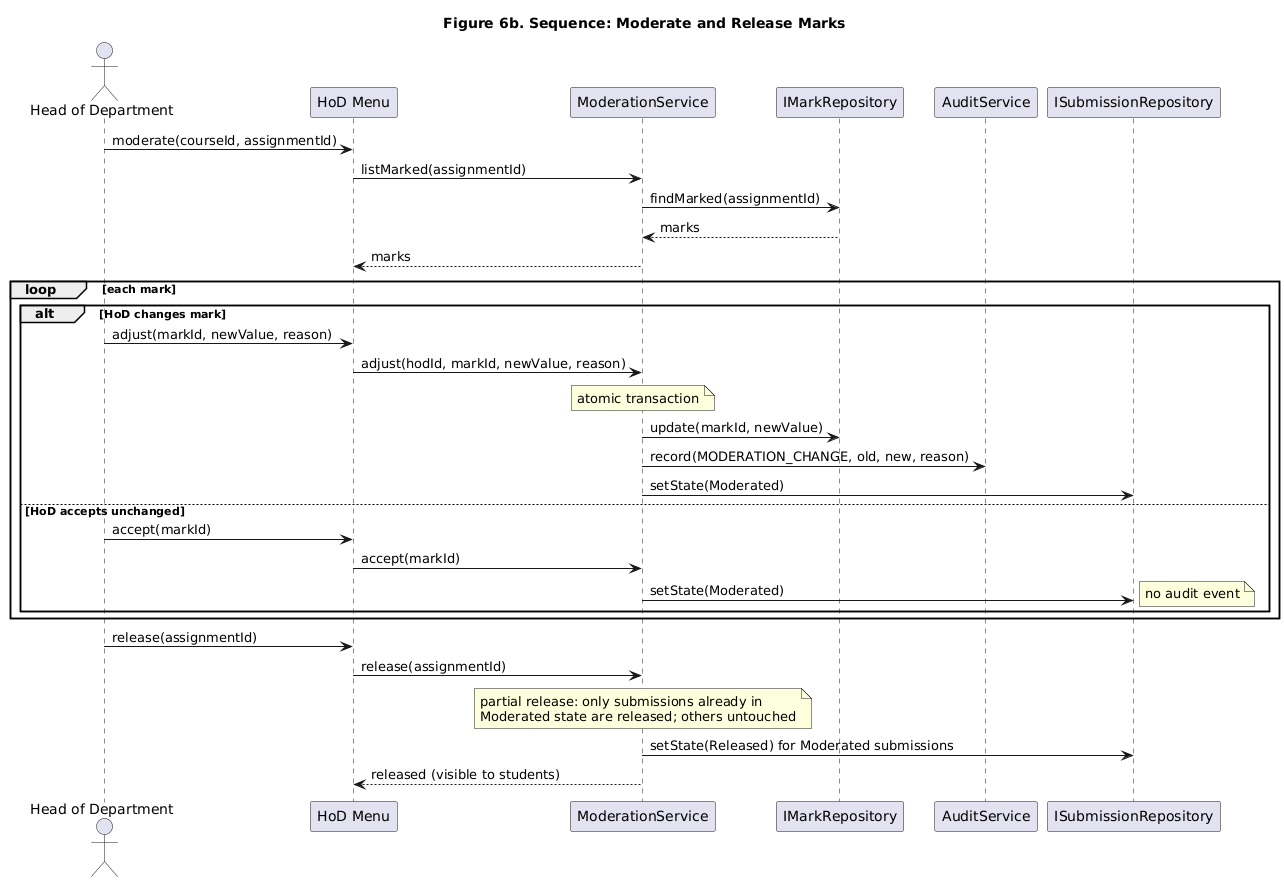
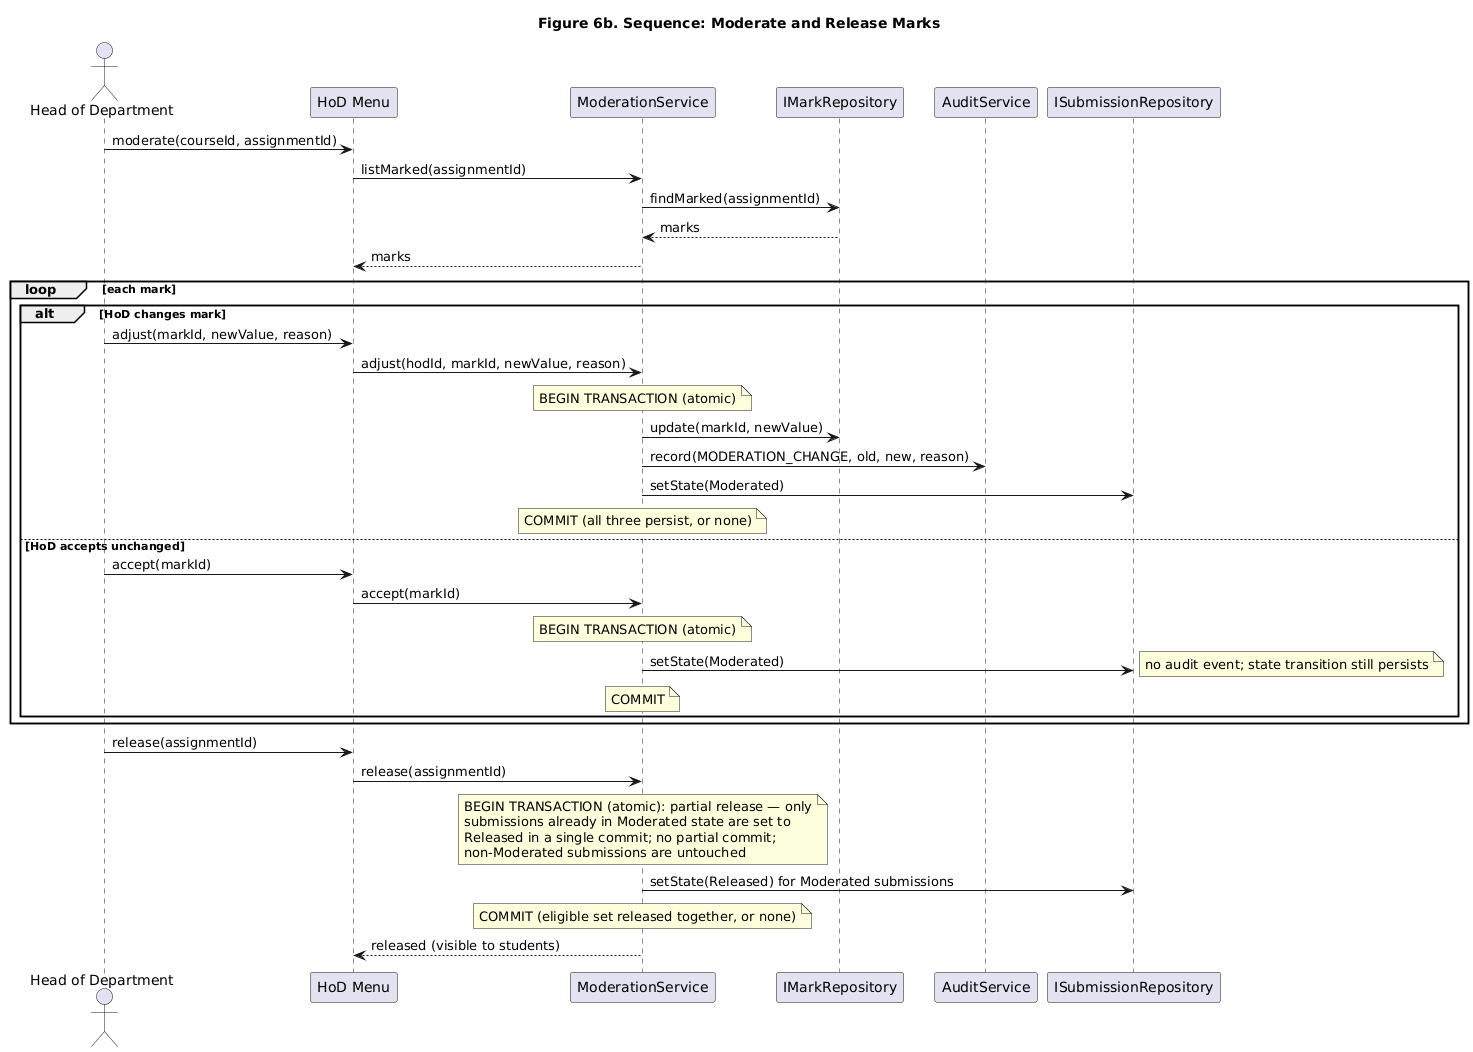
Gate 2 corrections (round 2): strengthen audit-reason whitespace check and validator constraint assertions; specify atomic transactions for marking, moderation and release; clarify first-late-only rule across UC-10, SRS and stakeholder conflicts

diff --git a/database/validate_schema.py b/database/validate_schema.py
@@ -1,6 +1,7 @@
 #!/usr/bin/env python3
-"""Validate database/schema.sql against SQLite: schema applies, valid data is
-accepted, and every integrity constraint rejects its matching invalid case.
+"""Validate database/schema.sql against SQLite: the schema applies, valid data
+is accepted, and each integrity constraint rejects its matching invalid case
+WITH THE EXPECTED error (not merely any exception).
 Design verification only - this is NOT the application. Run: python validate_schema.py
 """
 import os, sqlite3, sys
@@ -15,16 +16,22 @@ fails = 0
 def positive(label, fn):
     global fails
     try:
-        fn(); c.commit(); print(f"[PASS]            {label}")
+        fn(); c.commit(); print(f"[PASS]              {label}")
     except Exception as e:
-        fails += 1; print(f"[FAIL unexpected] {label}: {e}")
+        fails += 1; print(f"[FAIL unexpected]   {label}: {e}")
 
-def negative(label, fn):
+def negative(label, fn, expect):
+    """fn must raise, AND the error text must contain `expect` (the specific
+    constraint), so an unrelated error cannot be mistaken for a real rejection."""
     global fails
     try:
         fn(); c.commit(); fails += 1; print(f"[FAIL not-rejected] {label}")
     except Exception as e:
-        c.rollback(); print(f"[PASS rejected]   {label} ({type(e).__name__})")
+        c.rollback()
+        if expect in str(e):
+            print(f"[PASS rejected]     {label}  ({expect})")
+        else:
+            fails += 1; print(f"[FAIL wrong-error]  {label}: expected '{expect}', got: {e}")
 
 def seed():
     c.execute("INSERT INTO departments VALUES (1,'Computer Science')")
@@ -39,20 +46,23 @@ def seed():
     c.execute("INSERT INTO marks VALUES (1,1,80,80,'good work')")
     c.execute("INSERT INTO audit_events VALUES (1,1,'INITIAL',2,'2026-01-02T00:00:00',NULL,80,'Initial mark entry')")
 
+CHK="CHECK constraint failed"; UNI="UNIQUE constraint failed"; APP="append-only"
 print("SCHEMA APPLIES: OK\n-- positive --")
 positive("valid end-to-end seed (incl. INITIAL audit)", seed)
 positive("CHANGE with a real reason", lambda: c.execute(
     "INSERT INTO audit_events VALUES (6,1,'CHANGE',2,'t',80,85,'corrected arithmetic error')"))
-print("-- negative (must be rejected) --")
-negative("invalid role", lambda: c.execute("INSERT INTO users VALUES (9,'x','h','X','SUPERUSER',1,NULL)"))
-negative("invalid submission state", lambda: c.execute("INSERT INTO submissions VALUES (3,1,1,'x','t','PENDING')"))
-negative("INITIAL with wrong reason", lambda: c.execute("INSERT INTO audit_events VALUES (2,1,'INITIAL',2,'t',NULL,80,'tampered')"))
-negative("CHANGE whitespace-only reason", lambda: c.execute("INSERT INTO audit_events VALUES (3,1,'CHANGE',2,'t',80,85,'   ')"))
-negative("MODERATION_CHANGE empty reason", lambda: c.execute("INSERT INTO audit_events VALUES (4,1,'MODERATION_CHANGE',3,'t',80,90,'')"))
-negative("INITIAL with non-null old_value", lambda: c.execute("INSERT INTO audit_events VALUES (5,1,'INITIAL',2,'t',70,80,'Initial mark entry')"))
-negative("UPDATE audit_events (append-only)", lambda: c.execute("UPDATE audit_events SET reason='x' WHERE audit_id=1"))
-negative("DELETE audit_events (append-only)", lambda: c.execute("DELETE FROM audit_events WHERE audit_id=1"))
-negative("duplicate submission (assignment,student)", lambda: c.execute("INSERT INTO submissions VALUES (2,1,4,'again','t','LATE')"))
-negative("assignment max_mark = 0", lambda: c.execute("INSERT INTO assignments VALUES (2,1,'A2','t',0)"))
+print("-- negative (must be rejected with the expected constraint) --")
+negative("invalid role", lambda: c.execute("INSERT INTO users VALUES (9,'x','h','X','SUPERUSER',1,NULL)"), CHK)
+negative("invalid submission state", lambda: c.execute("INSERT INTO submissions VALUES (3,1,1,'x','t','PENDING')"), CHK)
+negative("INITIAL with wrong reason", lambda: c.execute("INSERT INTO audit_events VALUES (2,1,'INITIAL',2,'t',NULL,80,'tampered')"), CHK)
+negative("CHANGE spaces-only reason", lambda: c.execute("INSERT INTO audit_events VALUES (3,1,'CHANGE',2,'t',80,85,'   ')"), CHK)
+negative("CHANGE tab-only reason", lambda: c.execute("INSERT INTO audit_events VALUES (31,1,'CHANGE',2,'t',80,85,?)", ("\t\t",)), CHK)
+negative("CHANGE newline-only reason", lambda: c.execute("INSERT INTO audit_events VALUES (32,1,'CHANGE',2,'t',80,85,?)", ("\n",)), CHK)
+negative("MODERATION_CHANGE empty reason", lambda: c.execute("INSERT INTO audit_events VALUES (4,1,'MODERATION_CHANGE',3,'t',80,90,'')"), CHK)
+negative("INITIAL with non-null old_value", lambda: c.execute("INSERT INTO audit_events VALUES (5,1,'INITIAL',2,'t',70,80,'Initial mark entry')"), CHK)
+negative("UPDATE audit_events (append-only)", lambda: c.execute("UPDATE audit_events SET reason='x' WHERE audit_id=1"), APP)
+negative("DELETE audit_events (append-only)", lambda: c.execute("DELETE FROM audit_events WHERE audit_id=1"), APP)
+negative("duplicate submission (assignment,student)", lambda: c.execute("INSERT INTO submissions VALUES (2,1,4,'again','t','LATE')"), UNI)
+negative("assignment max_mark = 0", lambda: c.execute("INSERT INTO assignments VALUES (2,1,'A2','t',0)"), CHK)
 print(f"\n{'ALL CHECKS PASSED' if fails==0 else str(fails)+' CHECK(S) FAILED'}")
 sys.exit(1 if fails else 0)

diff --git a/docs/system-design/03_Behavioural_Models.md b/docs/system-design/03_Behavioural_Models.md
@@ -14,7 +14,7 @@ States `Submitted`, `Late`, `Marked`, `Moderated`, `Released` (FR-18). An on-tim
 
 **Figure 5. Activity Diagram (swimlanes)** — [assets/diagrams/activity_swimlanes.png](../../assets/diagrams/activity_swimlanes.png) · source: [activity_swimlanes.puml](../../assets/diagrams/activity_swimlanes.puml)
 
-Four partitions — Student, System, Lecturer, Head of Department — show the whole path from submission to released mark. The System partition branches on `timestamp ≤ D_e` (on-time vs after-deadline), then on whether **any** submission already exists (refuse replacement, preserving it — an on-time submission is never replaced after D_e, and a late submission is accepted only when none exists) and whether the attempt is within the cutoff (accept as Late, or reject as not submitted). Marking applies the penalty only when the submission is `Late` and writes the INITIAL/CHANGE audit event. Moderation branches on whether the HoD adjusts the mark (MODERATION_CHANGE audit) or accepts it unchanged (Moderated state, no audit). Release is a **partial release** — only submissions already in the `Moderated` state are set to `Released` and made visible; others are untouched — and each moderation action (mark update, audit event, state change) is performed atomically within one database transaction.
+Four partitions — Student, System, Lecturer, Head of Department — show the whole path from submission to released mark. The System partition branches on `timestamp ≤ D_e` (on-time vs after-deadline), then on whether **any** submission already exists (refuse replacement, preserving it — an on-time submission is never replaced after D_e, and a late submission is accepted only when none exists) and whether the attempt is within the cutoff (accept as Late, or reject as not submitted). Marking applies the penalty only when the submission is `Late` and writes the INITIAL/CHANGE audit event. Moderation branches on whether the HoD adjusts the mark (MODERATION_CHANGE audit) or accepts it unchanged (Moderated state, no audit). Release is a **partial release** — only submissions already in the `Moderated` state are set to `Released` and made visible; others are untouched — Marking, each moderation action and release are each performed atomically within a single database transaction (see Section 4).
 
 ## 3. Sequence diagrams
 
@@ -24,4 +24,16 @@ Four partitions — Student, System, Lecturer, Head of Department — show the w
 
 **Figure 6b. Moderate and Release Marks** — [assets/diagrams/sequence_moderate_release.png](../../assets/diagrams/sequence_moderate_release.png) · source: [sequence_moderate_release.puml](../../assets/diagrams/sequence_moderate_release.puml)
 
-`HoD Menu → ModerationService → IMarkRepository, AuditService, ISubmissionRepository`. The loop shows the two moderation outcomes — adjust (update mark, write MODERATION_CHANGE, set `Moderated`) versus accept unchanged (set `Moderated`, no audit) — followed by release, which sets `Released` and makes marks visible to students.
+`HoD Menu → ModerationService → IMarkRepository, AuditService, ISubmissionRepository`. The loop shows the two moderation outcomes — adjust (update mark, write MODERATION_CHANGE, set `Moderated`) versus accept unchanged (set `Moderated`, no audit) — followed by release, which sets `Released` and makes marks visible to students. Each branch and the release are wrapped in `BEGIN TRANSACTION … COMMIT`: the three adjust writes persist together or not at all, an unchanged acceptance still commits its state transition, and release moves the eligible set in one commit with no partial release.
+
+## 4. Transaction boundaries
+
+Every operation that changes a mark, its audit trail or a submission's state is a single ACID transaction. SQLite gives each connection one writer, so the service layer wraps the writes below in `BEGIN … COMMIT` and rolls back on any error. A mark is never saved without its audit event, and no release ever partially commits.
+
+| Operation | Writes performed in one transaction | Atomicity guarantee |
+|---|---|---|
+| **Marking** (UC-08: initial entry and lecturer re-mark) | save mark + feedback; set submission state to `Marked`; insert the audit event — `INITIAL` (old value NULL, reason "Initial mark entry") on first entry, `CHANGE` (old, new, reason) on a re-mark | the mark/feedback, the state change and the audit event commit together or not at all; a mark can never exist without its audit event, nor an audit event without its mark |
+| **Moderation** (UC-12) | *adjust:* update mark; insert `MODERATION_CHANGE` (old, new, reason); set state `Moderated`. *accept unchanged:* set state `Moderated` (no audit event) | the adjust branch's three writes are one unit; an unchanged acceptance still commits its `Moderated` transition, so every moderated submission has a recorded outcome |
+| **Release** (UC-13) | set state `Released` for every submission already in `Moderated` state for the assignment | the eligible set is released in one commit; a failure rolls the whole release back, so students never see a partially released cohort; non-`Moderated` submissions are untouched |
+
+On any failure (constraint violation, I/O error, process termination mid-write) the transaction rolls back, leaving the prior consistent state. This is the behavioural counterpart of the append-only audit model in Part 4: `submissions.state` remains the single release authority, and the audit trail is never left inconsistent with the mark it records.

diff --git a/docs/requirements/01_Stakeholder_Analysis_and_Conflicts.md b/docs/requirements/01_Stakeholder_Analysis_and_Conflicts.md
@@ -44,11 +44,11 @@ To remove ambiguity, the following definitions are fixed and used identically in
 |---|---|---|---|---|
 | C1 | "Students get marks as soon as I have marked" vs "students must not see any mark until the HoD has checked it" | Lecturer vs Principal/HoD | **Separate marking from release.** The lecturer records marks immediately and can see their own entered marks at once; students see *nothing* until the HoD moderates and performs an explicit **release**. | Satisfies the lecturer (mark without delay) and the Principal/HoD (nothing visible before moderation). Release is the single controlled visibility gate (FR-16, UC-12/13). |
 | C2 | "Late work should not simply be rejected" vs the HoD's penalty schedule | Student rep vs HoD | **Accept late work within the three-day window and apply the graduated penalty defined in Section 3.** The penalty is `0.10 × M` per **started day late** (`d`, Section 3), for `d = 1,2,3`; past the cutoff no submission is accepted and the mark is zero. | Both statements hold: work is never outright rejected within the window, and the HoD's schedule is enforced exactly (FR-13). The started-day rule is identical to C6, Section 3 and FR-13. |
-| C3 | Resubmission and feedback expectations | Student rep | **Resubmission is allowed up to D_e (latest replaces previous). An on-time submission may not be replaced after D_e. Written feedback is mandatory with every mark.** | Encodes the student's requests while protecting an on-time submission from being spoiled by a later edit (FR-12, FR-14; see C7). |
+| C3 | Resubmission and feedback expectations | Student rep | **Resubmission is allowed up to D_e (latest replaces previous). After D_e no existing submission may be replaced. Written feedback is mandatory with every mark.** | Encodes the student's requests while protecting an on-time submission from being spoiled by a later edit (FR-12, FR-14; see C7). |
 | C4 | "Respond quickly", "work offline", "passwords protected" are vague | IT officer | **Make them measurable:** offline single-machine/LAN operation (NFR-05); login within 2 s on the defined reference environment with the 800-student benchmark dataset (NFR-01); salted Argon2id password hashing via libsodium (NFR-03). | "Fast" and "protected" are unverifiable; measurable NFRs with a defined test environment make them reproducible. |
 | C5 | Which deadline governs lateness when an extension exists? | Lecturer / Student | **The effective deadline D_e (Section 3) governs lateness, the resubmission window and the acceptance cutoff.** | Removes the ambiguity between base deadline, extensions and the penalty clock (FR-09, FR-13). |
 | C6 | Calendar days vs 24-hour periods; part-days | HoD | **Each started 24-hour period after D_e counts as one full day (`d = ceil(elapsed/24h)`), capped at three; exactly at D_e is on time; exactly 24h late is `d = 1`.** | Matches "for each day it is late" and makes the rule deterministic and testable. Identical to Section 3, C2 and FR-13. |
-| C7 | Can a late submission replace an existing on-time one? | Student / Lecturer | **A first late submission is accepted only when no earlier submission exists (within the cutoff). An existing on-time submission cannot be replaced after D_e; it stands and is marked without penalty.** | Protects a student who met the deadline, while still accepting genuinely late work from students who had submitted nothing (FR-12, FR-13; aligns with "resubmit before the deadline"). |
+| C7 | Can a late submission replace an existing on-time one? | Student / Lecturer | **A first late submission is accepted only when no earlier submission exists (within the cutoff). After D_e no existing submission can be replaced — whether on-time or Late: an on-time submission stands and is marked without penalty, and an existing Late submission keeps its recorded lateness.** | Protects a student who met the deadline, while still accepting genuinely late work from students who had submitted nothing (FR-12, FR-13; aligns with "resubmit before the deadline"). |
 
 ## 5. Outcome
 

diff --git a/docs/requirements/02_Software_Requirements_Specification.md b/docs/requirements/02_Software_Requirements_Specification.md
@@ -44,7 +44,7 @@
 | FR-09 | Must | A Lecturer can grant a specific student an extended deadline for a specific assignment, setting that student's D_e. | Lateness, the resubmission window and the cutoff for that student are measured against D_e. |
 | FR-10 | Must | A Student can view their enrolled courses and the assignments for those courses, including each assignment's effective deadline D_e. | The listing shows only the student's courses and the correct D_e. |
 | FR-11 | Must | A Student can submit work for an assignment in a course they are enrolled in, up to the final acceptance cutoff. | A submission record is created, linked to the student and assignment, with a timestamp; its on-time/late status follows Section 3. |
-| FR-12 | Must | Resubmission rule: **(a)** up to D_e a student may resubmit any number of times and the latest submission replaces the previous one (state Submitted, no penalty); **(b)** after D_e an existing on-time submission **cannot** be replaced — it stands and is marked without penalty; **(c)** if no submission exists, a first submission after D_e but within the cutoff is accepted as **Late**; **(d)** after the cutoff no submission is accepted. | Before D_e, a new submission supersedes the prior. After D_e with an on-time submission present, replacement is refused and the on-time submission is preserved. With no prior submission, a within-cutoff submission is accepted and marked Late. After the cutoff, submission is refused. |
+| FR-12 | Must | Resubmission rule: **(a)** up to D_e a student may resubmit any number of times and the latest submission replaces the previous one (state Submitted, no penalty); **(b)** after D_e **any existing submission (on-time or Late) cannot be replaced** — an on-time submission stands and is marked without penalty, and an existing Late submission keeps its recorded lateness `d`; **(c)** if no submission exists, a first submission after D_e but within the cutoff is accepted as **Late**; **(d)** after the cutoff no submission is accepted. | Before D_e, a new submission supersedes the prior. After D_e with any submission present (on-time or Late), replacement is refused and the existing submission is preserved. With no prior submission, a within-cutoff submission is accepted and marked Late. After the cutoff, submission is refused. |
 | FR-13 | Must | The awarded mark applies the penalty of Section 3: `A = clamp(R − 0.10·M·d, 0, M)`, rounded to the nearest whole mark (halves up); `d = ceil(elapsed/24h)` capped at 3; if no submission by the cutoff, `A = 0`. | For given R, M and timestamp, A equals the Section 3 computation; boundaries: on time ⇒ no penalty; exactly 24h late ⇒ d=1; exactly 72h late ⇒ d=3; beyond cutoff ⇒ A=0. |
 | FR-14 | Must | A Lecturer can record a raw mark R (0..M) and written feedback for a submission. | R within range and persisted with non-empty feedback; invalid marks are rejected. |
 | FR-15 | Must | A Head of Department can review and, where necessary, adjust the awarded marks for all assignments in their department's courses before release. | The HoD can read and change any in-department mark; changes are audited (FR-17). |

diff --git a/docs/requirements/03_Use_Case_Model.md b/docs/requirements/03_Use_Case_Model.md
@@ -44,7 +44,7 @@ Three use cases are specified in full below, including **Submit Assignment** as 
 ### UC-10 — Submit Assignment
 
 - **Primary actor:** Student
-- **Stakeholders & interests:** Student (work recorded; can fix mistakes before the deadline; late work not rejected; an on-time submission is protected); Lecturer (a single current submission to mark); HoD (late penalties enforceable).
+- **Stakeholders & interests:** Student (work recorded; can fix mistakes before the deadline; late work not rejected; an existing submission is protected from replacement after D_e); Lecturer (a single current submission to mark); HoD (late penalties enforceable).
 - **Preconditions:** The student is authenticated (UC-01) and enrolled; the assignment exists; the current time is on or before the final acceptance cutoff (D_e + 72h).
 - **Trigger:** The student chooses to submit work for an assignment.
 - **Main success flow (on time):**
@@ -58,7 +58,7 @@ Three use cases are specified in full below, including **Submit Assignment** as 
   - *3a. Resubmission before D_e:* if a submission already exists and the timestamp ≤ D_e, the new submission **replaces** the previous one (FR-12a); state remains **Submitted**; no penalty.
   - *4a. First submission after D_e, within the cutoff, no earlier submission exists:* the system accepts the work, records its lateness `d = ceil((timestamp − D_e)/24h)`, and sets the state to **Late** (FR-12c). **No penalty is calculated here** — lateness is only recorded; the penalty is applied at marking (UC-08).
 - **Exception flows:**
-  - *E1. Existing on-time submission, attempt after D_e:* the system **refuses** the replacement and preserves the on-time submission, informing the student it will be marked without penalty (FR-12b, C7).
+  - *E1. Any existing submission (on-time or Late), attempt after D_e:* the system **refuses** the replacement and preserves the existing submission (FR-12b, C7). An on-time submission stands and is marked without penalty; an existing Late submission is likewise not replaced and keeps its recorded lateness `d`. A first Late submission is accepted only when no submission exists (step 4a).
   - *E2. Attempt after the final acceptance cutoff:* refused; if no submission exists, the assignment is recorded as not submitted and scored zero (FR-21).
   - *E3. Not enrolled / assignment not visible:* refused with an authorisation message (FR-02).
   - *E4. Invalid or empty content:* rejected and re-entered (FR-19).
